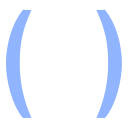
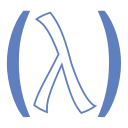
Metadata update

Changed region(s): [[0.0312, 0.0625, 0.9688, 0.9375]]

diff --git a/src/extension.ts b/src/extension.ts
@@ -68,7 +68,7 @@ const edit = (fn, ...args) =>
                 utils.select(textEditor, res.newIndex);
     }
 
-const pareditCommands: [[string, Function]] = [
+const pareditCommands: [string, Function][] = [
 
     // NAVIGATION
     ['paredit.forwardSexp', navigate(paredit.navigator.forwardSexp)],

diff --git a/README.md b/README.md
@@ -4,9 +4,9 @@ This is a [Paredit](http://mumble.net/~campbell/emacs/paredit.el) extension for 
 
 **Paredit**: provides structural editing and navigation for LISPs
 
-<center>
-<img src="https://github.com/PEZ/paredit-for-vscode/raw/master/assets/paredit-blue-bg-300.png" title="Paredit icon"></img>
-</center>
+<p align="center">
+<img src="https://github.com/PEZ/paredit-for-vscode/raw/master/assets/paredit.png" title="Paredit icon"></img>
+</p>
 
 Inspired by Atom's [lisp-paredit](https://github.com/jonspalding/lisp-paredit)
 
